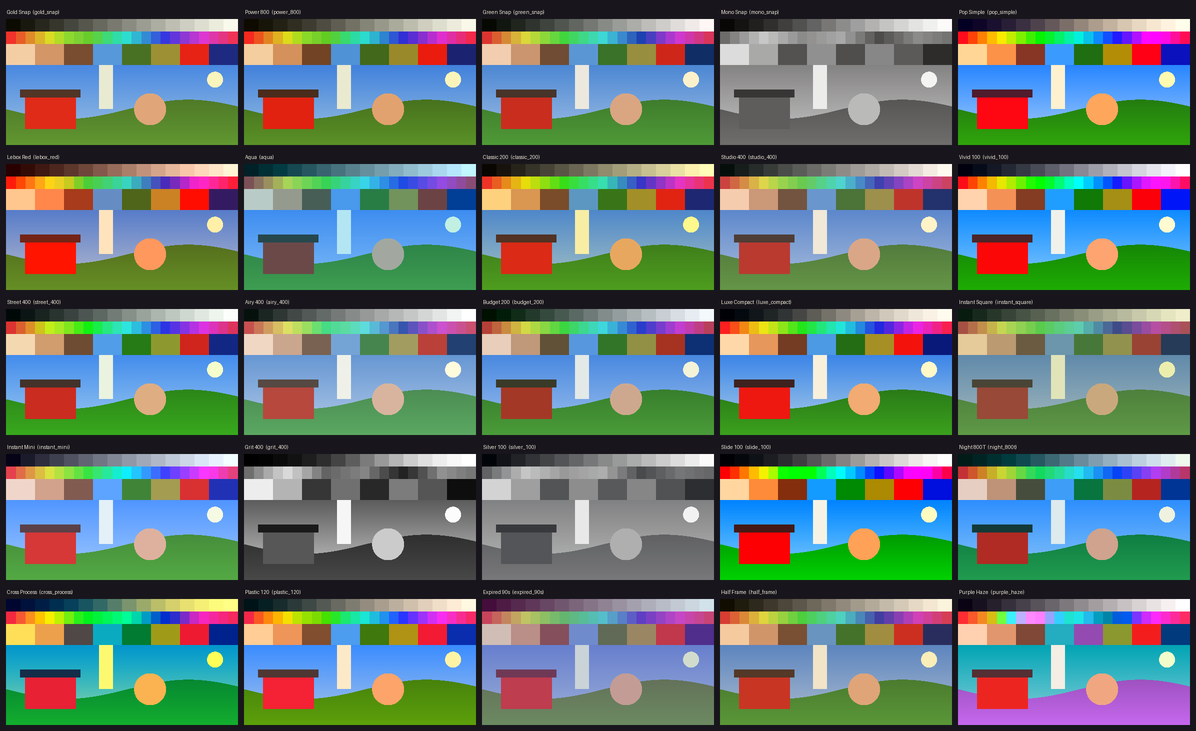
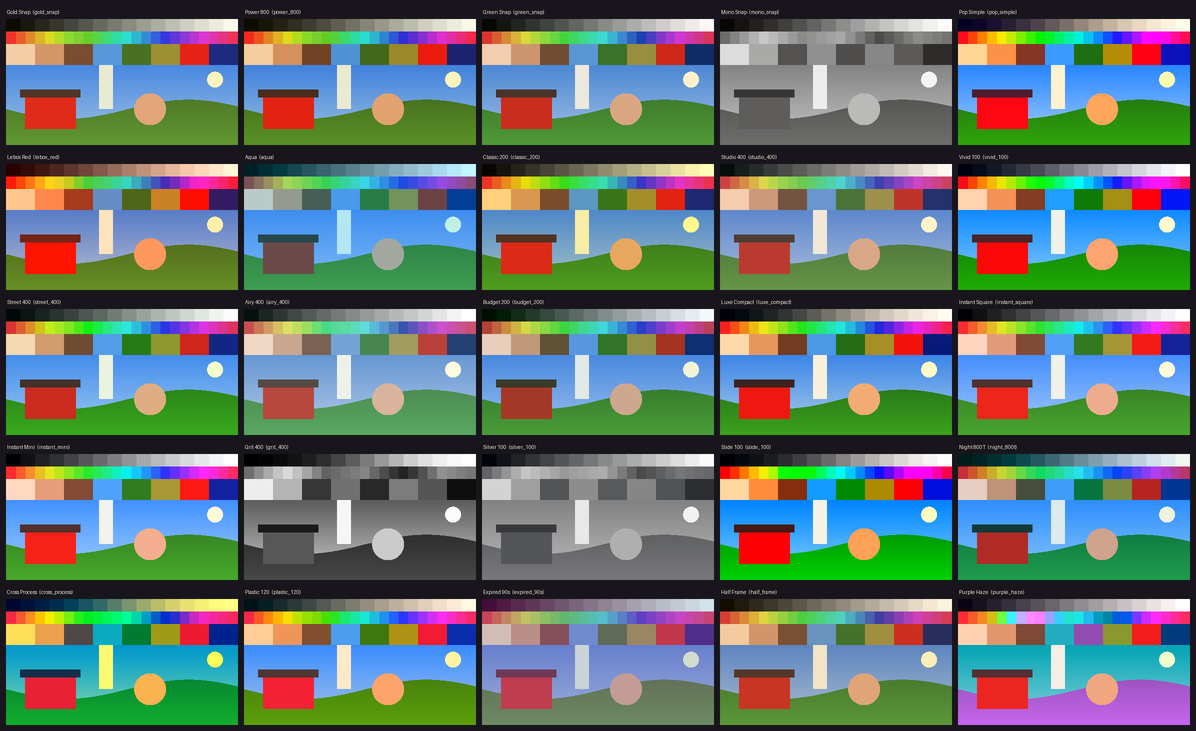
Retune instant looks to Fujifilm Instax (Mini and Square)
Both profiles now share the Instax colour family: vivid, high-key, dense
shadows, early highlight shoulder, clean slightly cool whites, slightly pink
skin. The Polaroid-style warm-green fade is removed from instant_square, which
stays only a touch softer than the Mini. PRD instant rows and the profile
asset test updated to match.

Claude-Session: https://claude.ai/code/session_01RKRzSQeYP6VDaLo8FEicPH

Changed region(s): [[0.7734, 0.4213, 1.0, 0.6019], [0.0, 0.6019, 0.2166, 0.8126]]

diff --git a/profiles/src/test/kotlin/com/retrocam/profiles/ProfileAssetsTest.kt b/profiles/src/test/kotlin/com/retrocam/profiles/ProfileAssetsTest.kt
@@ -99,8 +99,8 @@ class ProfileAssetsTest {
         fun p(id: String) = profiles.first { it.id == id }
         assertEquals(0.7f, p("airy_400").exposureEv, 1e-6f)
         assertEquals(FrameFormat.INSTANT_SQUARE, p("instant_square").frame)
-        assertTrue(p("instant_square").grain.amount < 0.1f)
-        assertTrue(p("instant_square").edgeSoftness >= 0.6f)
+        assertTrue(p("instant_square").grain.amount <= 0.3f)
+        assertTrue(p("instant_square").edgeSoftness >= p("instant_mini").edgeSoftness)
         assertEquals(FrameFormat.INSTANT_MINI, p("instant_mini").frame)
         assertEquals(FrameFormat.SQUARE, p("plastic_120").frame)
         assertEquals(FrameFormat.HALF_FRAME, p("half_frame").frame)

diff --git a/tools/lut/generate_luts.py b/tools/lut/generate_luts.py
@@ -135,14 +135,14 @@ LOOKS: Dict[str, Look] = {
         sat_bands={0: 1.1, 30: 1.05, 240: 0.95},
         shadow=("#1E4C6A", 0.18), highlight=("#FFD9A0", 0.12)),
     # ---------------- Instant ----------------
-    "instant_square": Look(  # faded, creamy highlights, warm-green cast
-        gains=(1.02, 1.035, 0.88), curve=C(k=1.1, lift=0.085, white=0.93), sat=0.78,
-        sat_bands={0: 0.85, 240: 0.75}, hue_shifts=[(70, 40, 8)],
-        shadow=("#5F9C78", 0.40), highlight=("#FFF0BE", 0.35)),
-    "instant_mini": Look(  # bright, high-key, cool
-        gains=(0.965, 1.0, 1.07), curve=C(k=1.7, gamma=0.86, lift=0.02, white=1.0), sat=1.08,
-        sat_bands={180: 1.3, 300: 1.2, 240: 1.1},
-        shadow=("#7F74D0", 0.22), highlight=("#DDEEFF", 0.20)),
+    "instant_square": Look(  # Instax Square: same film as the Mini, a touch softer in tone
+        gains=(0.995, 1.0, 1.012), curve=C(k=3.0, gamma=0.94, lift=0.006, white=1.0), sat=1.1,
+        sat_bands={0: 1.1, 120: 0.95, 180: 1.1, 240: 1.05, 300: 1.1}, hue_shifts=[(28, 20, -6)],
+        shadow=("#3A3A5A", 0.08), highlight=("#F4F8FF", 0.05)),
+    "instant_mini": Look(  # Instax Mini: vivid, high-key, punchy, dense shadows, highlights blow early
+        gains=(0.995, 1.0, 1.012), curve=C(k=3.4, gamma=0.92, lift=0.005, white=1.0), sat=1.14,
+        sat_bands={0: 1.1, 120: 0.95, 180: 1.15, 240: 1.05, 300: 1.1}, hue_shifts=[(28, 20, -6)],
+        shadow=("#3A3A5A", 0.08), highlight=("#F4F8FF", 0.05)),
     # ---------------- Black and white ----------------
     "grit_400": Look(  # high contrast, deep blacks, dramatic skies
         mono=(0.46, 0.42, 0.12), curve=C(k=6.2, gamma=1.14, white=1.0),

diff --git a/docs/PRD.md b/docs/PRD.md
@@ -73,8 +73,8 @@ RetroCam ships 20 camera types at v1.0 and 5 more in v1.1, across six families. 
 
 | In-app name | Inspired by | Colour character | Grain | Flash | Extras | Release |
 |---|---|---|---|---|---|---|
-| Instant Square | Polaroid 600 | Faded, creamy highlights, warm-green cast | Soft (no grain, low sharpness) | Strong, washed-out | White square frame option, soft focus | v1.0 |
-| Instant Mini | Fujifilm Instax Mini | Bright, high-key, cool | Fine | Bright | Credit-card frame option | v1.0 |
+| Instant Square | Fujifilm Instax Square | Vivid, high-key, punchy; dense shadows, highlights blow early, clean slightly cool whites | Fine | Bright, fairly even, neutral-cool | White square frame option, a touch softer than Mini | v1.0 |
+| Instant Mini | Fujifilm Instax Mini | Vivid, high-key, punchy; dense shadows, highlights blow early, clean slightly cool whites | Fine | Bright, fairly even, neutral-cool | Credit-card frame option | v1.0 |
 
 ### Black and white
 
